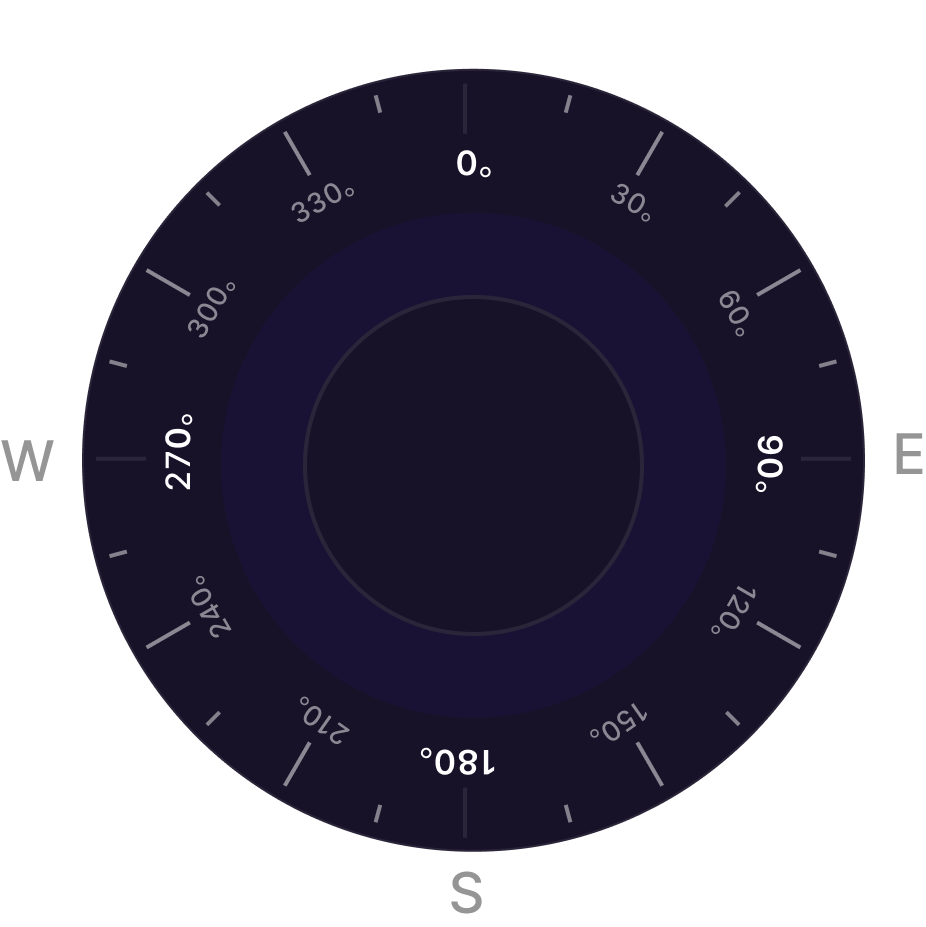
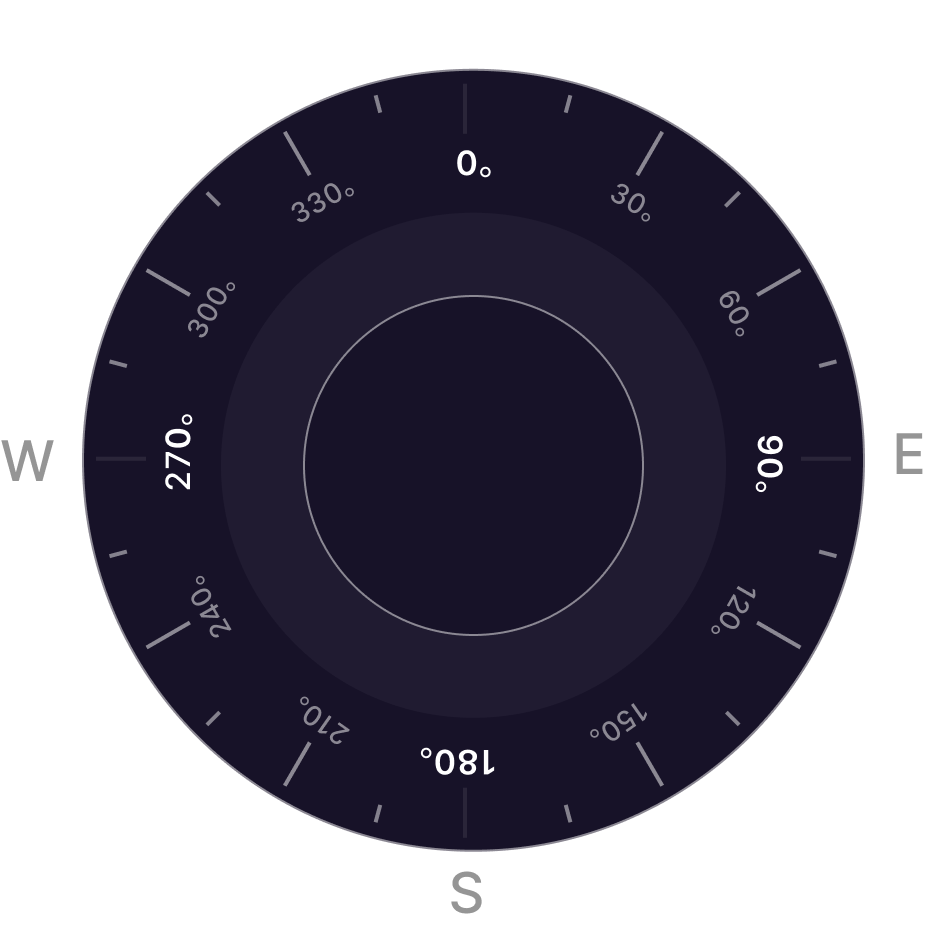
compass night mode, error style update

diff --git a/lib/pages/qibla_direction/qibla_direction_page.dart b/lib/pages/qibla_direction/qibla_direction_page.dart
@@ -25,7 +25,14 @@ class CompassWithQiblah extends StatelessWidget {
         padding: const EdgeInsets.symmetric(horizontal: 16),
         child: Center(
           child: SmoothCompass(
-            errorDecoration: ErrorDecoration(),
+            errorDecoration: ErrorDecoration(
+              buttonText: ButtonText(),
+              buttonStyle: ErrorButtonStyle(
+                  borderRadius: BorderRadius.circular(20),
+                  buttonColor: AppTheme.primaryColor,
+                  textColor: AppTheme.white),
+              messageTextStyle: TextStyle(color: theme.error),
+            ),
             isQiblahCompass: true,
             compassBuilder: (context, snapshot, child) {
               if (isFacingWithQibla(snapshot?.data?.angle ?? 0.0,

diff --git a/lib/main.dart b/lib/main.dart
@@ -27,6 +27,9 @@ class QuranReaderApp extends StatelessWidget {
 
   @override
   Widget build(BuildContext context) {
+    precacheImage(const AssetImage('assets/images/compass_night.png'), context);
+    precacheImage(const AssetImage('assets/images/compass.png'), context);
+
     return MultiBlocProvider(
       providers: [
         BlocProvider<MainNavigationCubit>(
